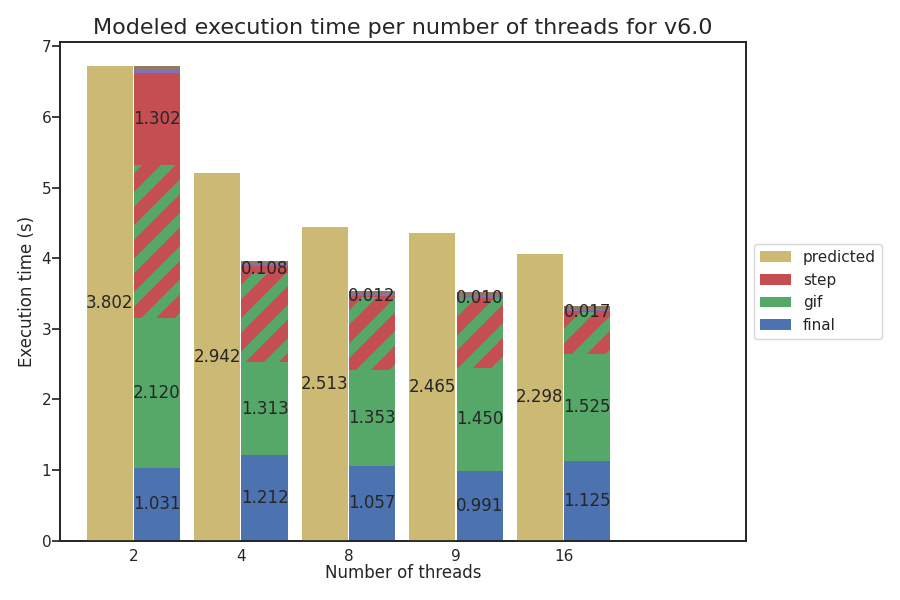
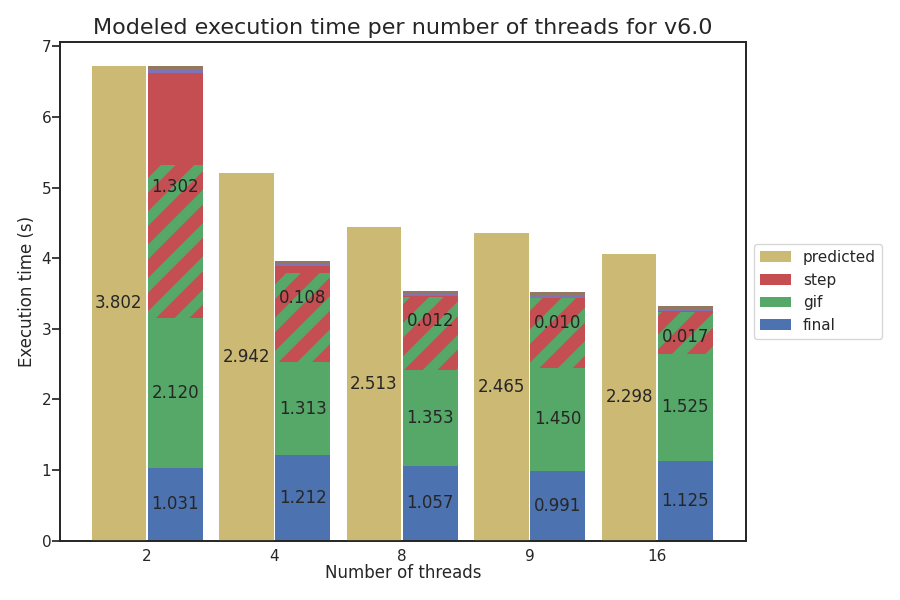
New v6.0 model scaling

Changed region(s): [[0.0933, 0.09, 0.8089, 0.93]]

diff --git a/profiler/generate_stats.py b/profiler/generate_stats.py
@@ -70,22 +70,13 @@ def gen_stats():
                                  aggfunc="mean")
 
     # Order DataFrame to plot in order.
-    if "actual" in df_mean.columns:
-        cols = ["throughput", "actual", "total", "final", "gif", "swap", "step",
-                "wrap", "init"]
-        df_mean = df_mean[cols]
-    else:
-        cols = ["throughput", "total", "final", "gif", "swap", "step", "wrap",
-                "init"]
-        df_mean = df_mean[cols]
+    cols = ["throughput", "actual", "total", "final", "gif", "swap", "step",
+            "wrap", "init"]
+    df_mean = df_mean[cols]
 
     # Normalize the mean values to be between 0 and 1.
     df_mean_norm = df_mean.copy()
-
-    if "actual" in df_mean.columns:
-        df_mean_norm.iloc[:, 3:] = df_mean_norm.iloc[:, 3:].div(df_mean_norm.iloc[:, 3:].sum(axis=1), axis=0)
-    else:
-        df_mean_norm.iloc[:, 2:] = df_mean_norm.iloc[:, 2:].div(df_mean_norm.iloc[:, 2:].sum(axis=1), axis=0)
+    df_mean_norm.iloc[:, 3:] = df_mean_norm.iloc[:, 3:].div(df_mean_norm.iloc[:, 3:].sum(axis=1), axis=0)
 
     # Write means file.
     with open(f"results/stats/{results_folder}_means.csv", "w") as fp:

diff --git a/profiler/generate_model_scaling.py b/profiler/generate_model_scaling.py
@@ -149,7 +149,11 @@ def gen_scaling_plot():
                     right=False, labelright=False, bottom=False, labelbottom=False)
 
     ax.legend(handles[::-1], labels[::-1], loc="center left", bbox_to_anchor=(1, 0.5))
-    ax.set_xbound(upper=5.7)
+
+    if int(results_folder[9:10]) >= 6:
+        ax.set_xbound(upper=4.7)
+    else:
+        ax.set_xbound(upper=5.7)
     plt.tight_layout()
 
     # Annotate bars from scaling.
@@ -162,8 +166,12 @@ def gen_scaling_plot():
     values = np.append(values, df_mean[["gif"]].values.flatten())
     values = np.append(values, df_mean[["step"]].values.flatten())
 
-    for p, val in zip(patches, values):
+    for p, val, i in zip(patches, values, range(len(values))):
         width, height = p.get_width(), p.get_height()
+
+        if int(results_folder[9:10]) >= 6 and i >= len(threads * 2):
+            height = height/20 - 0.7
+
         x, y = p.get_xy()
         ax.text(x+width/2,
                 y+height/2,
